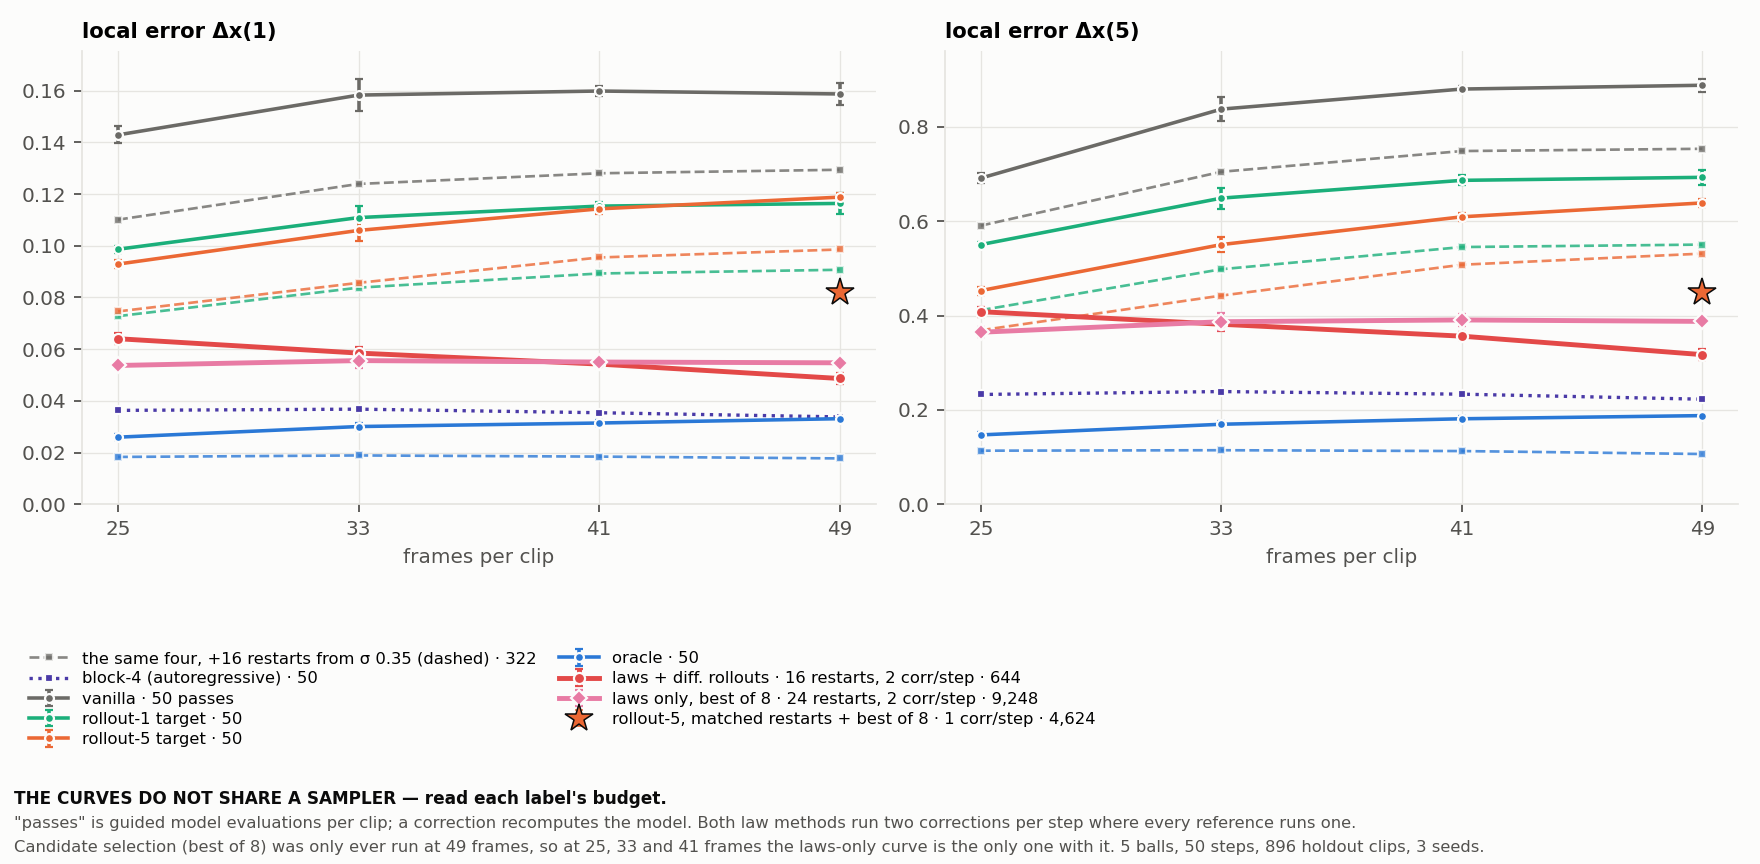
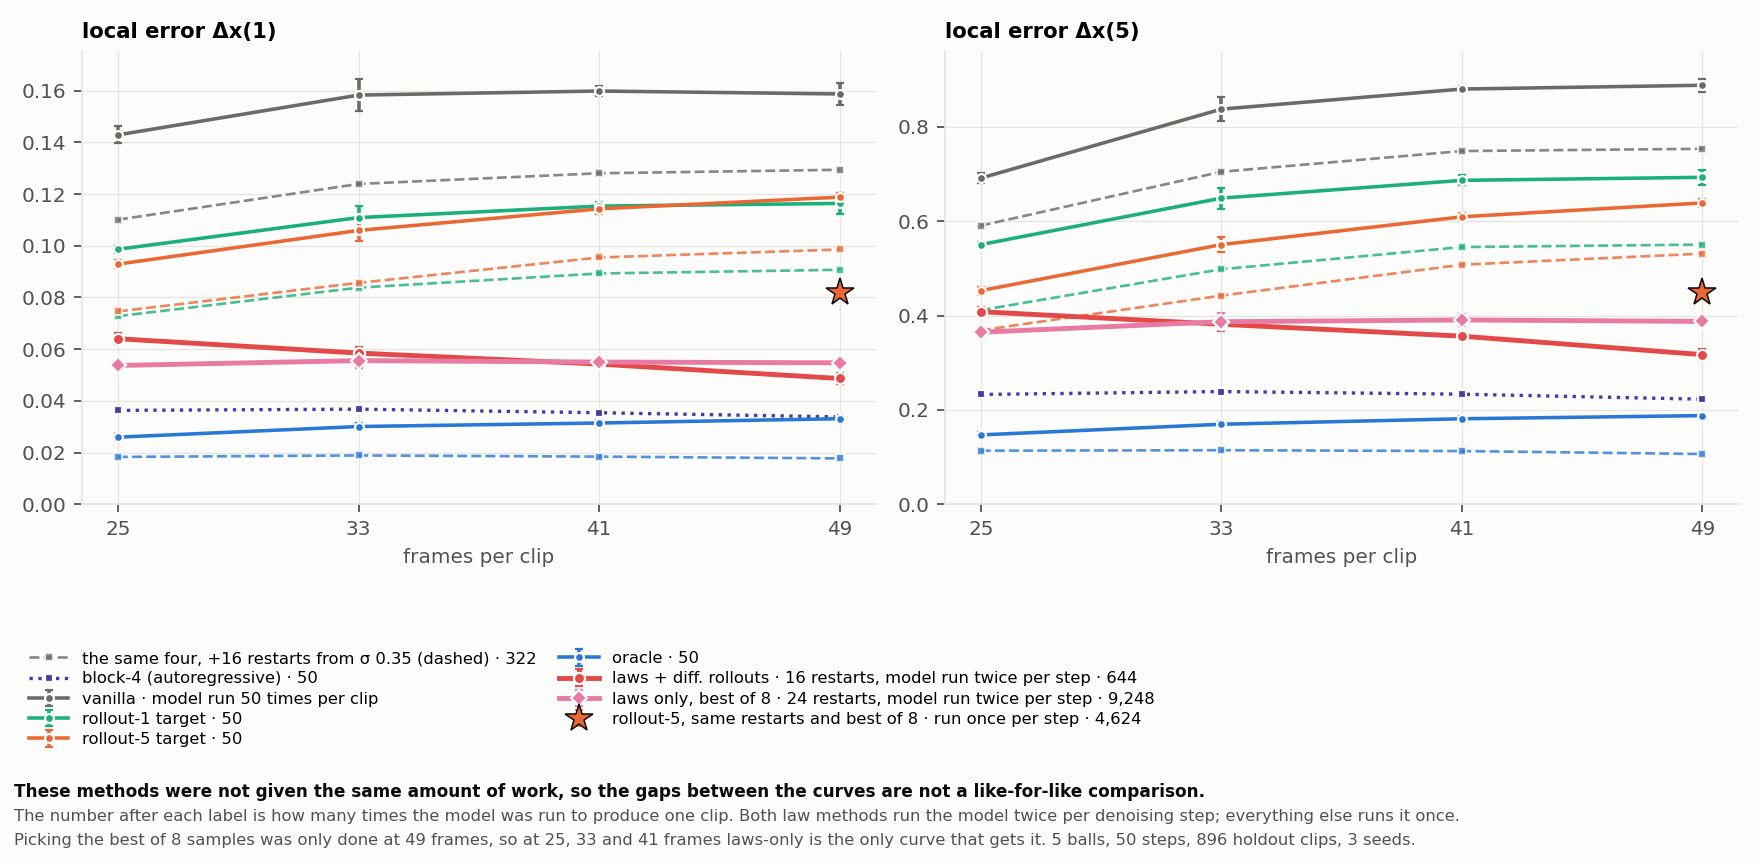
Say plainly that the law methods got more work than the baselines
The heading, caption and in-figure text all said the curves "do not share a
sampler" and quoted a "budget" in "model passes", with "machinery" standing in
for restarts and best-of-8. None of that says what it means.

Now: the heading states the finding ("With law guidance, longer clips stop
making the error worse"); the caption says to read the shapes of the curves
rather than the gaps between them, because the methods were not given the same
amount of work; and every label counts how many times the model was run to make
one clip. The figure's own footer says the same in three plain sentences. The
numbers behind the plot are unchanged.

The findings entry, the table above the figure and its column headers, the
round-2 verdict, and the matching passages in REPORT.md get the same treatment:
"model runs per denoising step", "tries per clip (best kept)", "total model runs
per clip", and restarts and best-of-8 named directly instead of "machinery".

Changed region(s): [[0.0, 0.9062, 0.8438, 1.0], [0.375, 0.7812, 0.6562, 0.8438], [0.0938, 0.7812, 0.2188, 0.8125]]

diff --git a/index.html b/index.html
@@ -810,7 +810,7 @@
           <li><strong>The rollout targets work here and failed in pixels.</strong> The same targets changed pixel-space error by within ±2%, because a tracker had to recover ball positions from video first. On exact states there is nothing to detect: rollout-5 guidance lowers the five-step local error by 28% at 49 frames and 34% at 25, and improves 84–87% of individual clips.</li>
           <li><strong>They do not flatten the length curve.</strong> The 25→49-frame growth of the local error is 1.28× unguided, 1.26× with a rollout-1 target and 1.41× with rollout-5. Guidance moves the whole curve down by roughly a constant factor, and the guided model stays about three times worse than block-4.</li>
           <li><strong>Rollout guidance fixes positions and breaks velocities.</strong> Overlapping frames halve and the collision-count distribution is repaired, but energy drift triples and by frame 48 a rollout-5 sample has kept 47% of its initial kinetic energy. Neither local error catches this; a conserved quantity tracked across the whole clip does.</li>
-          <li><strong>Guidance from physics laws alone does flatten it.</strong> No target and no ground truth — only algebraic relations between neighbouring frames — plus restart sampling and critic selection reaches Δx(1) 0.055 and Δx(5) 0.388, flat in clip length, keeping vanilla's energy and speed distribution. Most of that gain is the sampler machinery rather than the laws, and block-4 is still ahead at 0.223.</li>
+          <li><strong>Guidance from physics laws alone does flatten it.</strong> No target and no ground truth — only algebraic relations between neighbouring frames — plus restart sampling and critic selection reaches Δx(1) 0.055 and Δx(5) 0.388, flat in clip length, keeping vanilla's energy and speed distribution. Most of that gain comes from the extra sampling work rather than from the laws, and block-4 is still ahead at 0.223.</li>
         </ol>
       </div>
 
@@ -1083,25 +1083,25 @@
         <h3>Physics-law guidance</h3>
         <p>Everything above asks whether guidance can substitute for serial generation using targets the model computes for itself, and finds that they lower the error but leave the length dependence intact. This part replaces the targets with physics. A <strong>law</strong> is an algebraic relation between neighbouring frames of the clean estimate: conservation of energy, free flight with wall reflection, constraints at a contact, no overlaps, no crossings. Anything that integrates the dynamics forward, with or without gradients, is a rollout.</p>
         <p>The bar was set in advance for both rounds: closer to the oracle than to the rollout targets on both local errors, meaning Δx(1) &lt; 0.075 and Δx(5) &lt; 0.41 at 49 frames and 50 steps.</p>
-        <h4>These methods do not share a sampler</h4>
-        <p>Everything above, and the block-4 reference, uses 50 denoising steps, one guidance correction per step and one sample per clip. Both law methods add machinery on top. Read every law result against this table:</p>
+        <h4>These methods were not given the same amount of work</h4>
+        <p>Everything above, and the block-4 comparison, runs 50 denoising steps, applies its guidance correction once per step, and produces one clip per attempt. Both law methods do more than that, so their numbers are not directly comparable to the rest. Here is what each one actually runs:</p>
       </div>
       <div class="wide-width report-content">
         <div class="table-scroll" tabindex="0" role="region" aria-label="Sampler budget per method">
           <table>
-            <thead><tr><th>Method</th><th>Restarts</th><th>Corrections per step</th><th>Samples per clip</th><th>Model passes per clip</th></tr></thead>
+            <thead><tr><th>Method</th><th>Restarts</th><th>Model runs per denoising step</th><th>Tries per clip (best kept)</th><th>Total model runs per clip</th></tr></thead>
             <tbody>
               <tr><td>vanilla, rollout-1, rollout-5, oracle; block 4</td><td>0</td><td>1</td><td>1</td><td>50</td></tr>
               <tr><td>the same four with restarts (dashed in Figure 34)</td><td>16 from σ 0.35</td><td>1</td><td>1</td><td>322</td></tr>
               <tr><td>laws + differentiable rollouts (round 1)</td><td>16 from σ 0.35</td><td><strong>2</strong></td><td>1</td><td>644</td></tr>
-              <tr><td>rollout-5 with round 2's machinery, 49 frames only</td><td>24 from σ 0.45</td><td>1</td><td>8</td><td>4,624</td></tr>
+              <tr><td>rollout-5 given round 2's extra work, 49 frames only</td><td>24 from σ 0.45</td><td>1</td><td>8</td><td>4,624</td></tr>
               <tr><td>laws only (round 2)</td><td>24 from σ 0.45</td><td><strong>2</strong></td><td>8</td><td>9,248</td></tr>
             </tbody>
           </table>
         </div>
       </div>
       <div class="reading-width report-content">
-        <p>Passes count (50 + restarts × steps below the restart σ) × corrections × samples, and a correction recomputes the model. Two consequences. Both law methods run two corrections per step where every reference runs one — including the restart-matched references and the rollout-5 best-of-8 control — so each has twice the guidance compute of its nearest comparison. And the best-of-8 control was only ever run at 49 frames, so the flat laws-only curve below is drawn against references that get restarts but never candidate selection.</p>
+        <p>The last column counts every time the model is run to make one clip: 50 steps, plus the steps replayed by each restart, times the runs per step, times the number of tries. Two things follow. Both law methods run the model twice per step where everything else runs it once, so each has double the guidance work of its closest comparison — including the rollout-5 run that otherwise matches it. And keeping the best of 8 tries was only ever done at 49 frames, so at shorter clip lengths there is nothing to compare laws-only against on that count.</p>
       </div>
       <figure class="plot" id="guidance-laws-search">
         <div class="figure-heading"><h3>Round 1: laws plus differentiable rollouts</h3><a href="assets/statebench-guidance/figures/laws_iterations.png" download>Download PNG <span aria-hidden="true">↓</span></a></div>
@@ -1155,7 +1155,7 @@
         </div>
       </div>
       <div class="reading-width report-content">
-        <p><strong>The laws-only method clears the bar as set</strong>, 0.055 &lt; 0.075 and 0.388 &lt; 0.41, against the plain-sampler references. <strong>It does not on equal footing.</strong> Give rollout-5 the same 24 restarts and the same critic pick of 8 and it improves to 0.082 / 0.449; the midpoints to the oracle become 0.050 and 0.278, and the laws-only method sits at the midpoint on Δx(1) and on the rollout side on Δx(5), 18% of the way from rollout-5 to the oracle. Restart sampling and law-critic selection are sampler machinery that helps any guidance, and most of the laws-only gain over the rollout-5 target — 0.639 to 0.388 — is that machinery, not the laws: geometry laws alone with the plain sampler give 0.654, and rollout-5 with the full machinery gives 0.449. What the laws add on top of the machinery is 0.06 on Δx(5) and 0.027 on Δx(1), plus the physical fidelity shown below.</p>
+        <p><strong>The laws-only method clears the bar as set</strong>, 0.055 &lt; 0.075 and 0.388 &lt; 0.41, when measured against methods run the plain way. <strong>It does not clear it once the comparison is fair.</strong> Give rollout-5 the same 24 restarts and the same critic pick of 8 and it improves to 0.082 / 0.449; the midpoints to the oracle become 0.050 and 0.278, and the laws-only method sits at the midpoint on Δx(1) and on the rollout side on Δx(5), 18% of the way from rollout-5 to the oracle. Restarts and best-of-8 selection help any guidance, not just this one, and most of the drop from rollout-5's 0.639 to laws-only's 0.388 is those two things rather than the laws: the geometry laws on their own, run the plain way, give 0.654, and rollout-5 with restarts and best-of-8 gives 0.449. What the laws themselves add on top is 0.06 on Δx(5) and 0.027 on Δx(1), plus the physical fidelity shown below.</p>
         <p>The method has three parts.</p>
         <ol>
           <li><strong>Geometry guidance.</strong> No overlaps, no crossings, inside the box; bounded per-element step, strength 3, plus the relative-velocity reflection law at weight 0.3, faded as it is satisfied, applied only when σ ≤ 0.35 and added without renormalising the geometry step. The reflection helper is worth 0.02; nothing else helps as a guide.</li>
@@ -1167,13 +1167,13 @@
         <p>As critics the same laws are safe: nothing is optimised against them, so they cannot be gamed, and they rank finished samples well. Single-law critics give 0.404 for the position step, 0.410 for speed and 0.412 for total momentum, against 0.458 without selection.</p>
       </div>
       <figure class="plot" id="guidance-laws-length">
-        <div class="figure-heading"><h3>Law guidance removes the length dependence</h3><a href="assets/statebench-guidance/figures/laws_horizon.png" download>Download PNG <span aria-hidden="true">↓</span></a></div>
-        <img src="assets/statebench-guidance/figures/laws_horizon.png" alt="Local error against clip length. The law-guided curves are flat or falling while the rollout curves rise, but every legend entry carries its sampler budget in model passes per clip, and the two law curves run two guidance corrections per step against the references' one" width="1760" height="864" loading="lazy">
-        <figcaption><span class="figure-number">Figure 34.</span> <strong>The curves do not share a sampler</strong> — each legend entry carries its budget in guided model passes per clip, from 50 for the plain references and block 4 up to 9,248 for laws-only. Round 1's error <em>falls</em> with clip length, 0.408 at 25 frames to 0.317 at 49, while every other bidirectional method rises with or without restarts. The laws-only method is flat: Δx(5) 0.365, 0.387, 0.391, 0.388 and Δx(1) 0.054, 0.056, 0.055, 0.055 at 25, 33, 41 and 49 frames. The star is the only reference sharing the laws-only machinery — rollout-5 with the same 24 restarts and the same critic pick of 8 — and it exists at 49 frames only, at one correction per step against laws-only's two.</figcaption>
+        <div class="figure-heading"><h3>With law guidance, longer clips stop making the error worse</h3><a href="assets/statebench-guidance/figures/laws_horizon.png" download>Download PNG <span aria-hidden="true">↓</span></a></div>
+        <img src="assets/statebench-guidance/figures/laws_horizon.png" alt="Local error against clip length. The two law-guided curves are flat or falling while every other bidirectional curve rises. Each label says how many times the model was run per clip, from 50 up to 9,248, because the methods were not given the same amount of work" width="1760" height="864" loading="lazy">
+        <figcaption><span class="figure-number">Figure 34.</span> <strong>Read the shapes of the curves, not the gaps between them.</strong> The methods here were not given the same amount of work: each label says how many times the model was run to produce one clip, and it ranges from 50 for the four plain methods and block 4 up to 9,248 for laws-only. Both law methods run the model twice per denoising step where everything else runs it once, and laws-only additionally keeps the best of 8 tries per clip.</figcaption>
       </figure>
       <div class="reading-width report-content">
-        <p>The length dependence that rollout targets could not remove — 1.28× for vanilla, 1.41× for rollout-5 — is gone under law guidance with restarts and critic selection, as it is for block 4, at a level 0.17 above block 4. Longer clips give the laws more constraints and the restarts more chances to re-plan, which cancels the model prior getting worse with length.</p>
-        <p>Read that flatness against the budget table above. The dashed references have round 1's restarts but one correction per step, and no reference at 25, 33 or 41 frames has candidate selection at all — so at those three lengths the laws-only curve is the only one drawn with best-of-8. Whether a reference given the same 24 restarts, two corrections and 8 candidates would also flatten is untested below 49 frames. At 49 frames, rollout-5 with 24 restarts and the same critic reaches 0.449 against the laws-only 0.388, still at one correction per step.</p>
+        <p>What the curves do: round 1's error <em>falls</em> as clips get longer, from 0.408 at 25 frames to 0.317 at 49. Laws-only is flat — Δx(5) 0.365, 0.387, 0.391, 0.388 and Δx(1) 0.054, 0.056, 0.055, 0.055 at 25, 33, 41 and 49 frames. Every other bidirectional method rises, with or without restarts. So the growth that rollout targets could not remove — 1.28× for vanilla, 1.41× for rollout-5 — is gone, as it is for block 4, though at an error 0.17 higher than block 4's. Longer clips give the laws more constraints and the restarts more chances to re-plan, which cancels out the model getting worse with length.</p>
+        <p>How much of that is the laws and how much is the extra work is only testable at 49 frames. The star is the one method run the same way as laws-only: rollout-5 with the same 24 restarts and the same best-of-8 pick. It reaches 0.449 against laws-only's 0.388, and it still runs the model once per denoising step where laws-only runs it twice. At 25, 33 and 41 frames nothing else was given best-of-8 at all, so there is no comparison to make there.</p>
       </div>
       <div class="wide-width report-content">
         <h3>What the local errors do not show</h3>
